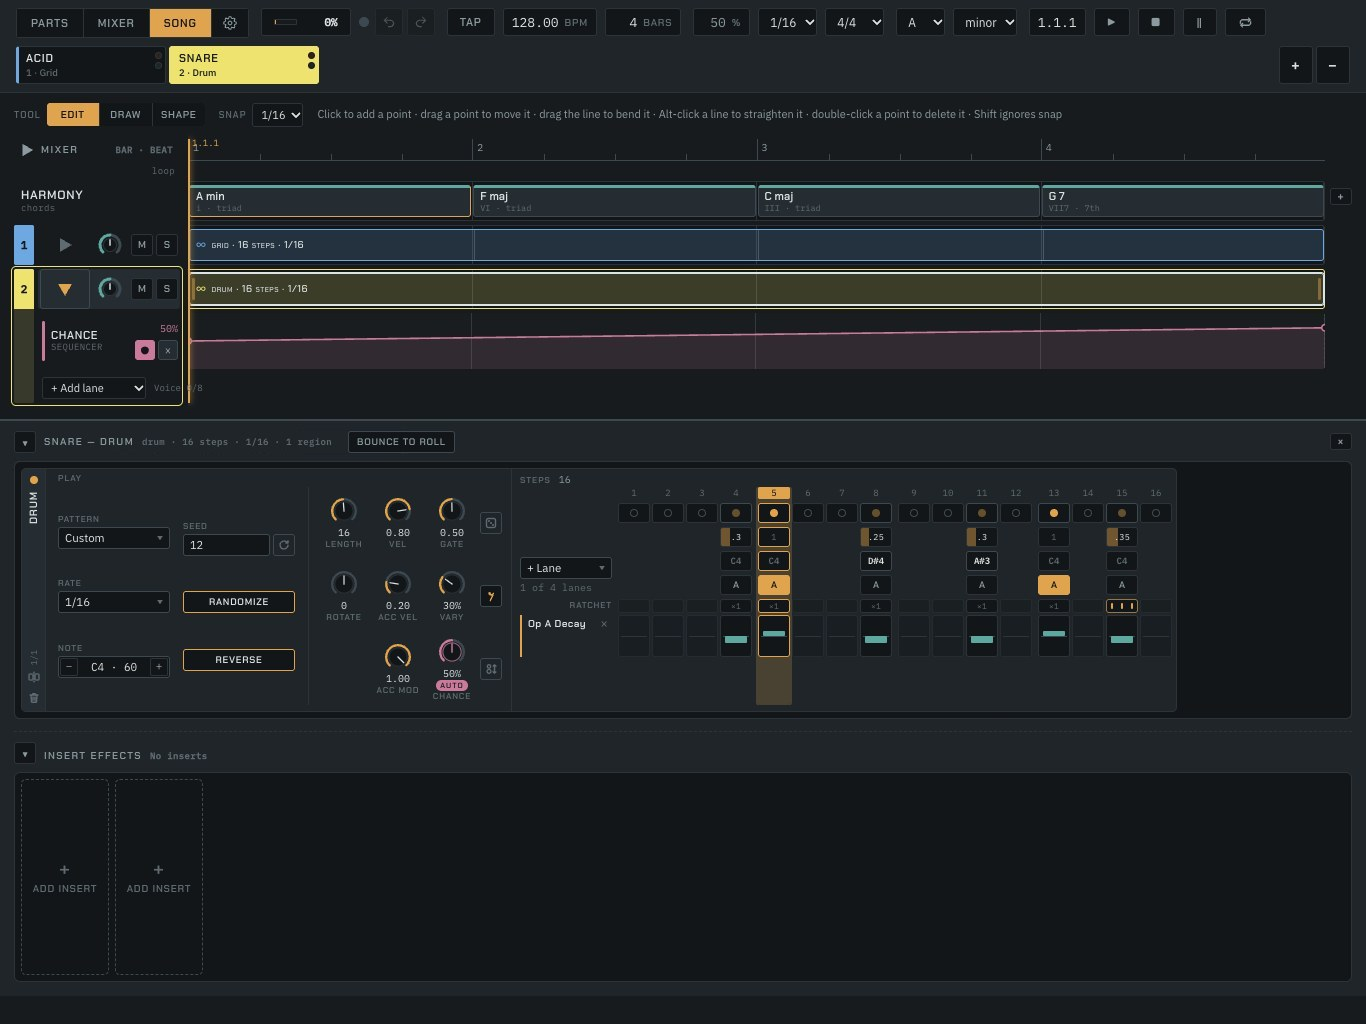
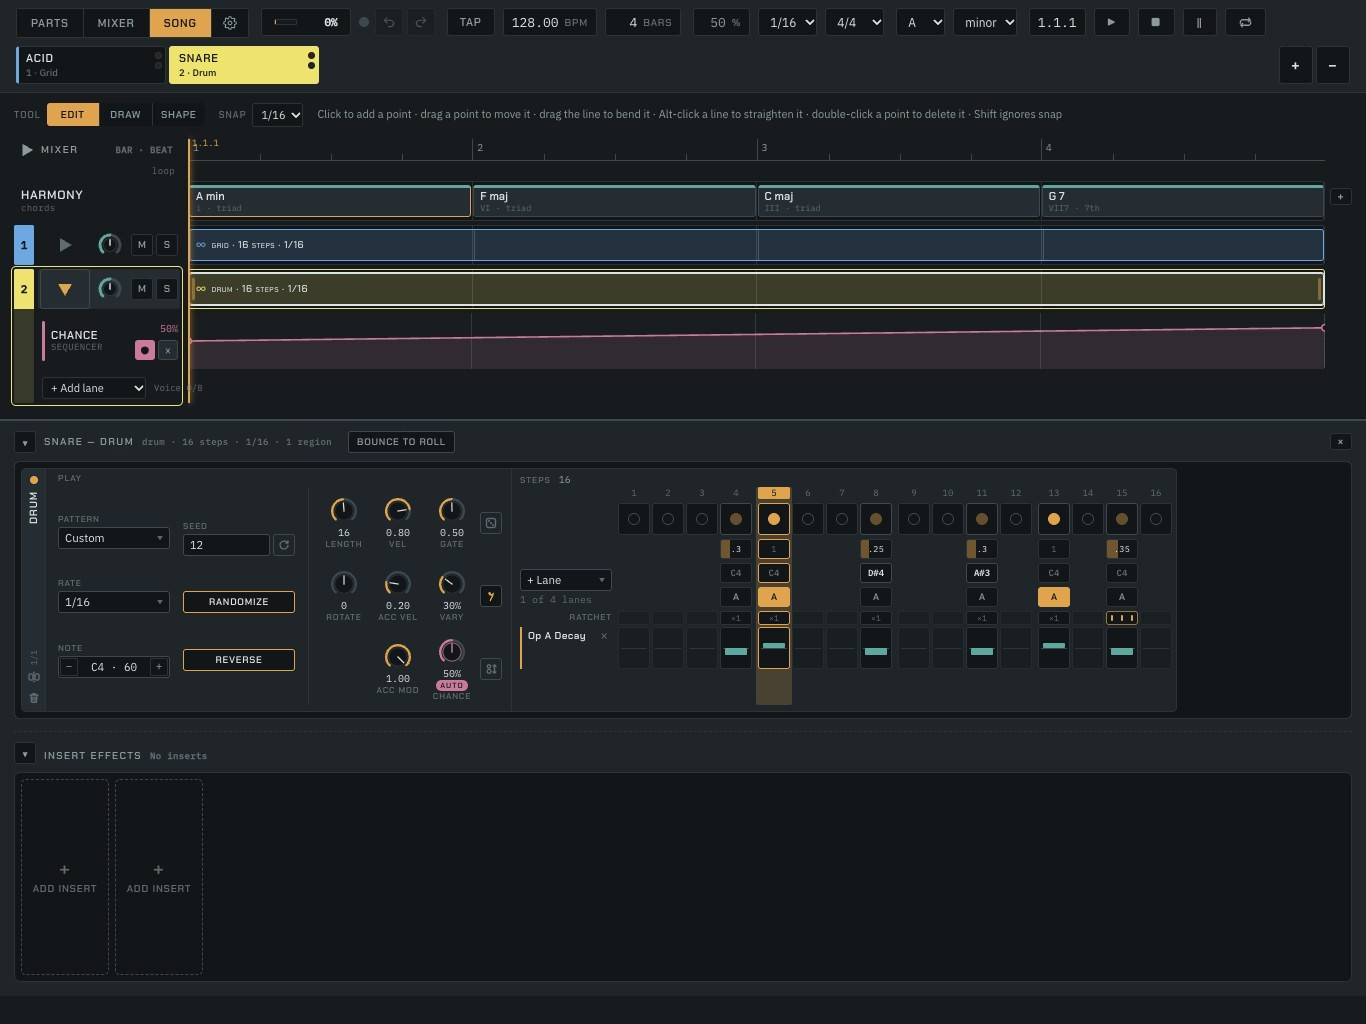
Make the Drum device's step pads square and record its decisions
tacowars approved the Drum device mockup on PR windsor#953 with every
recommended option and asked for square step pads, so the hit cell reads as
the device's main control. The pad takes the step's 32 px width; the other
rows keep the Arp's 20 px cells and 4 px gap, so the held rows grow from 126
to 138 px and the lanes scroll after one full lane instead of two. The
pickers now open on the choices, and the record docs/log/2026-10-24-drum-device.md
lands here as the issue's decision 8 allows.

diff --git a/docs/design/drum-device-mockup.html b/docs/design/drum-device-mockup.html
@@ -1080,23 +1080,24 @@
   </style>
   <style id="drum-rules">
     /* ---------- new: the Drum's own rules (the build adds them to console.css) ---------- */
-    /* Its held rows are Basslead's count: the step number, hit, Vel, Pitch, A (20 px each) and the ratchet. */
+    /* Its held rows: the step number, the square hit pad (the step's width), Vel, Pitch, A (the Arp's 20 px) and the ratchet. */
     .drum-device {
-      --strip-head-h: var(--bass-strip-head-h);
+      --strip-head-h: var(--drum-strip-head-h);
     }
     /* Its columns the Grid's 2 px apart (not the Arp's 6), the beats set off by the meter's gaps. */
     .drum-device .seq-strip > .grid-strip {
       gap: 2px;
     }
-    /* The hit cell: a filled dot for a hit in the part's accent, an empty ring for a rest. */
+    /* The hit cell, a square pad: a filled dot for a hit in the part's accent, an empty ring for a rest. */
     .drum-device .seq-strip .gcell.drum-hit {
+      height: var(--step-w);
       display: grid;
       place-items: center;
       padding: 0;
     }
     .drum-device .gcell.drum-hit i {
-      width: 8px;
-      height: 8px;
+      width: 12px;
+      height: 12px;
       border-radius: 50%;
       background: var(--kc);
     }
@@ -1104,7 +1105,7 @@
       background: transparent;
       box-shadow: inset 0 0 0 1px var(--line-bright);
     }
-    /* To decide 3, recommended: a hit under 0.5 dims its dot. */
+    /* Decision 3: a hit under 0.5 dims its dot. */
     .drum-device.ghost-dim .gcell.drum-hit.ghost i {
       background: color-mix(in srgb, var(--kc) 40%, transparent);
     }
@@ -1147,7 +1148,7 @@
     .drum-device .seq-strip .gcell.pitch.flat {
       color: var(--ink-faint);
     }
-    /* The Pattern picker on the rail (To decide 2's other way): an 18 px rail icon over a picker. */
+    /* The Pattern picker on the rail (decision 2's other way, kept selectable): an 18 px rail icon over a picker. */
     .seq-icon.drum-pattern {
       position: relative;
     }
@@ -1172,35 +1173,35 @@
     <label
       >1 Pitch
       <select id="mPitch">
-        <option value="name">Note name (recommended)</option>
+        <option value="name">Note name (chosen)</option>
         <option value="offset">Offset</option>
       </select></label
     >
     <label
       >2 Pattern
       <select id="mPlace">
-        <option value="play">Head of Play (recommended)</option>
+        <option value="play">Head of Play (chosen)</option>
         <option value="rail">On the rail</option>
       </select></label
     >
     <label
       >3 Ghost hit
       <select id="mGhost">
-        <option value="dim">Dims below 0.5 (recommended)</option>
+        <option value="dim">Dims below 0.5 (chosen)</option>
         <option value="solid">Solid</option>
       </select></label
     >
     <label
       >4 Randomize
       <select id="mRandom">
-        <option value="count">Hit count kept (recommended)</option>
+        <option value="count">Hit count kept (chosen)</option>
         <option value="density">8 of 16</option>
       </select></label
     >
     <label
       >5 Vel fill
       <select id="mVel">
-        <option value="across">Across, the Figure's (recommended)</option>
+        <option value="across">Across, the Figure's (chosen)</option>
         <option value="up">Up</option>
       </select></label
     >
@@ -1267,15 +1268,19 @@
         <b>Steps.</b> A column per step at the Grid's 32 px, <b>2 px apart as the Grid's</b> (the
         Arp's are 6), each beat set off by the meter's 4 px and each bar by 10
         (<code>meterGrid.ts</code>); steps past Length greyed as the Grid's (drag Length down to see
-        it, up to add rests to 32). Rows, top down: the step number; the <b>hit</b>; the
-        <b>Vel bar</b>; <b>Pitch</b>; <b>A</b>; the ratchet at 14 px. The cells are the Arp's 20 px
-        with its 4 px row gap, so the held rows are Basslead's 126 px. Then + Lane and the lane
-        count in the corner, the Ratchet label, and one step lane (Op A Decay: the ghosts shorter,
-        the backbeat longer) at 42 px. The playhead ring is on step 5.
+        it, up to add rests to 32). Rows, top down: the step number; the <b>hit</b>, a square pad 32
+        × 32 px (the step's width), the device's main control; the <b>Vel bar</b>; <b>Pitch</b>;
+        <b>A</b>; the ratchet at 14 px. The other cells are the Arp's 20 px with its 4 px row gap,
+        so the held rows are 138 px, 12 more than Basslead's 126. What gives is the lane area: under
+        the 244 px device the strip is 218 px high, so two 42 px step lanes showed in full before
+        the lanes scroll and now one does, with 34 px of the second (the Arp shows one and 22 px). A
+        tighter row gap would need 1.6 px in place of 4 to win the 12 px back. Then + Lane and the
+        lane count in the corner, the Ratchet label, and one step lane (Op A Decay: the ghosts
+        shorter, the backbeat longer) at 42 px. The playhead ring is on step 5.
       </li>
       <li>
-        <b>The hit cell</b>: a filled dot in the part's accent for a hit, an empty ring for a rest.
-        A click toggles; a new hit plays at 1.
+        <b>The hit cell</b>: a square pad, a 12 px filled dot in the part's accent for a hit, an
+        empty ring for a rest. A click toggles; a new hit plays at 1.
       </li>
       <li>
         <b>The Vel bar</b> is the Figure's (<code>figureCells.ts</code>): the value written on it
@@ -1323,8 +1328,8 @@
       <li>
         <b>Picker 5, the Vel bar's fill</b>, is an addition: the issue reads the Figure's bar as
         filling upward (<q>a velocity bar's height is the velocity</q>), but the Figure's bar, and
-        the Arp's Gate bar after it, fill across, dragged up or down. Recommended: across, the real
-        bar. <b>Up</b> draws the fill from the cell's foot.
+        the Arp's Gate bar after it, fill across, dragged up or down. Decided: across, the real bar.
+        <b>Up</b> draws the fill from the cell's foot.
       </li>
     </ul>
 
@@ -1446,33 +1451,37 @@
       (windsor#949 decisions 2 to 4, over windsor#948's fields).
     </p>
 
-    <h2>To decide</h2>
+    <h2>Decided on PR windsor#953 (2026-10-24)</h2>
+    <p>
+      tacowars took every recommended option and made the hit cells square pads. The pickers open on
+      the choice; the other ways stay selectable.
+    </p>
     <ol>
       <li>
-        <b>Pitch display.</b> Recommended: <b>the played note's name</b> (C4, D#4): what sounds, and
-        a tom roll reads as notes. The other way, <b>Offset</b>, writes +3 and -2 (0 faint), with
-        the note in the tooltip.
+        <b>Pitch display.</b> Chosen: <b>the played note's name</b> (C4, D#4): what sounds, and a
+        tom roll reads as notes. The other way, <b>Offset</b>, writes +3 and -2 (0 faint), with the
+        note in the tooltip.
       </li>
       <li>
-        <b>Where Pattern sits.</b> Recommended: <b>at the head of Play</b>, the first thing a new
-        part needs, showing its name. The other way puts it <b>on the rail</b> between the name and
-        the region, as an 18 px button (a new glyph, steps with hits) that opens the same grouped
-        list, the chosen name in its tooltip. Neither changes the width: Rate and Note keep the
-        field column.
+        <b>Where Pattern sits.</b> Chosen: <b>at the head of Play</b>, the first thing a new part
+        needs, showing its name. The other way puts it <b>on the rail</b> between the name and the
+        region, as an 18 px button (a new glyph, steps with hits) that opens the same grouped list,
+        the chosen name in its tooltip. Neither changes the width: Rate and Note keep the field
+        column.
       </li>
       <li>
-        <b>A ghost hit's look.</b> Recommended: <b>the dot dims below 0.5</b>, so the ghosts read in
-        the hit row. The other way keeps every dot <b>solid</b> and the Vel bar alone shows it.
+        <b>A ghost hit's look.</b> Chosen: <b>the dot dims below 0.5</b>, so the ghosts read in the
+        hit row. The other way keeps every dot <b>solid</b> and the Vel bar alone shows it.
       </li>
       <li>
-        <b>Randomize's rule</b> (its tooltip; the button works). Recommended:
-        <b>the hit count kept</b>, the hits at new places, each at a velocity from 0.3 to 1. The
-        other way draws <b>8 of 16</b> (half the Length) at the same velocities. Here a new hit has
-        no accent, pitch or ratchet; the build's ticket says what Randomize does to those.
+        <b>Randomize's rule</b> (its tooltip; the button works). Chosen: <b>the hit count kept</b>,
+        the hits at new places, each at a velocity from 0.3 to 1. The other way draws
+        <b>8 of 16</b> (half the Length) at the same velocities. Here a new hit has no accent, pitch
+        or ratchet; the build's ticket says what Randomize does to those.
       </li>
       <li>
-        <b>The Vel bar's fill</b> (an addition, above). Recommended: <b>across</b>, the Figure's bar
-        as it is; the other way fills <b>up</b>.
+        <b>The Vel bar's fill</b> (an addition, above). Chosen: <b>across</b>, the Figure's bar as
+        it is; the other way fills <b>up</b>.
       </li>
     </ol>
   </div>
@@ -1502,6 +1511,8 @@
         '--arp-step-gap': 6,
         '--arp-strip-head-h': 150,
         '--bass-strip-head-h': 126,
+        // New: the Drum's held rows, the 32 px square hit pad in place of a 20 px cell.
+        '--drum-strip-head-h': 138,
         '--beat-gap': 4,
         '--bar-gap': 10,
         '--lane-h': 42,

diff --git a/docs/log/2026-10-24-drum-device.md b/docs/log/2026-10-24-drum-device.md
@@ -1,0 +1,56 @@
+# The Drum device: square pads over the Arp's rows
+
+- **Date:** 2026-10-24
+- **Status:** accepted. tacowars decided on PR windsor#953 on 2026-10-24:
+  every recommended option of the mockup's pickers (decisions 1 to 5), and
+  one change, square step pads (decision 6).
+- **Mockup:** `docs/design/drum-device-mockup.html`, the spec the build
+  follows, with its frames rendered as `docs/design/drum-device-today-*.jpg`
+  (main at 8b2761d, captured from `npm run dev` in the project's headless
+  Chrome) and `docs/design/drum-device-proposed-*.jpg` (captured from the
+  served mockup). The pickers open on the choices below; the other ways
+  stay selectable for comparison.
+- **Links:** this record's issue, windsor#949 · the engine's `drum` kind,
+  windsor#948 (record `2026-10-24-drum-sequencer`) · the build, windsor#951
+
+## Context
+
+windsor#948 adds a `drum` sequencer kind: a step pattern of hits and rests,
+each hit with a velocity, an accent, a pitch offset from the part's note and
+a ratchet, under the Grid's Length and Rotate, the Arp's Seed, Randomize and
+Reverse, and step variation's Vary and Chance. windsor#949 mocked its rack
+device in the Arp's place at the three viewports, built from the app's own
+markup and rules, and left four choices to tacowars, plus a fifth the
+mockup raised (the Vel bar's fill). The device is 244 px high, as every
+sequencer device is (record `2026-10-01-sequencer-rack-devices`).
+
+## Decisions
+
+1. **Pitch shows the played note's name** (C4, D#4), `note + pitch` as the
+   engine plays it, faint at offset 0, with the signed offset in the
+   cell's tooltip. What sounds is what reads, and a tom roll reads as
+   notes.
+2. **The Pattern picker sits at the head of Play**, above Rate and Note in
+   the field column, showing the pattern's name or Custom. It is the first
+   thing a new part needs. Not on the rail.
+3. **A ghost hit's dot dims below velocity 0.5** (to 40% of the accent), so
+   the ghosts read in the hit row as well as on the Vel bar.
+4. **Randomize keeps the hit count**: it draws as many hits as the pattern
+   has now (at least one), at new places, each at a velocity from 0.3 to 1.
+   Its tooltip says so. Not a fixed 8 of 16.
+5. **The Vel bar fills across**, as the Figure's bar and the Arp's Gate bar
+   do, and is dragged up or down. The issue's "a velocity bar's height is
+   the velocity" read the Figure's bar wrongly; the real bar is the spec.
+6. **The step pads are square.** The hit cell is as tall as the step column
+   is wide, 32 × 32 px with a 12 px dot, so the pads stand taller than the
+   other step rows and read as the device's main control. The other rows
+   keep the Arp's 20 px cells and 4 px row gap, so the held rows are 138
+   px, 12 more than the 126 px they were with a 20 px hit cell (a new
+   `--drum-strip-head-h` beside `--bass-strip-head-h`). The device stays
+   244 px high and 1156 px wide at 16 steps. What gives is the lane area:
+   measured in the mockup, the strip is 218 px high, so where two 42 px
+   step lanes showed in full before the lanes scroll, one does now, with 34
+   px of the second (the Arp, at 150 px, shows one and 22 px). A tighter
+   row gap was the other way to pay for it, but it needed 1.6 px in place
+   of 4 across the five gaps, off the Arp's rows, so the lanes scroll
+   sooner instead.
